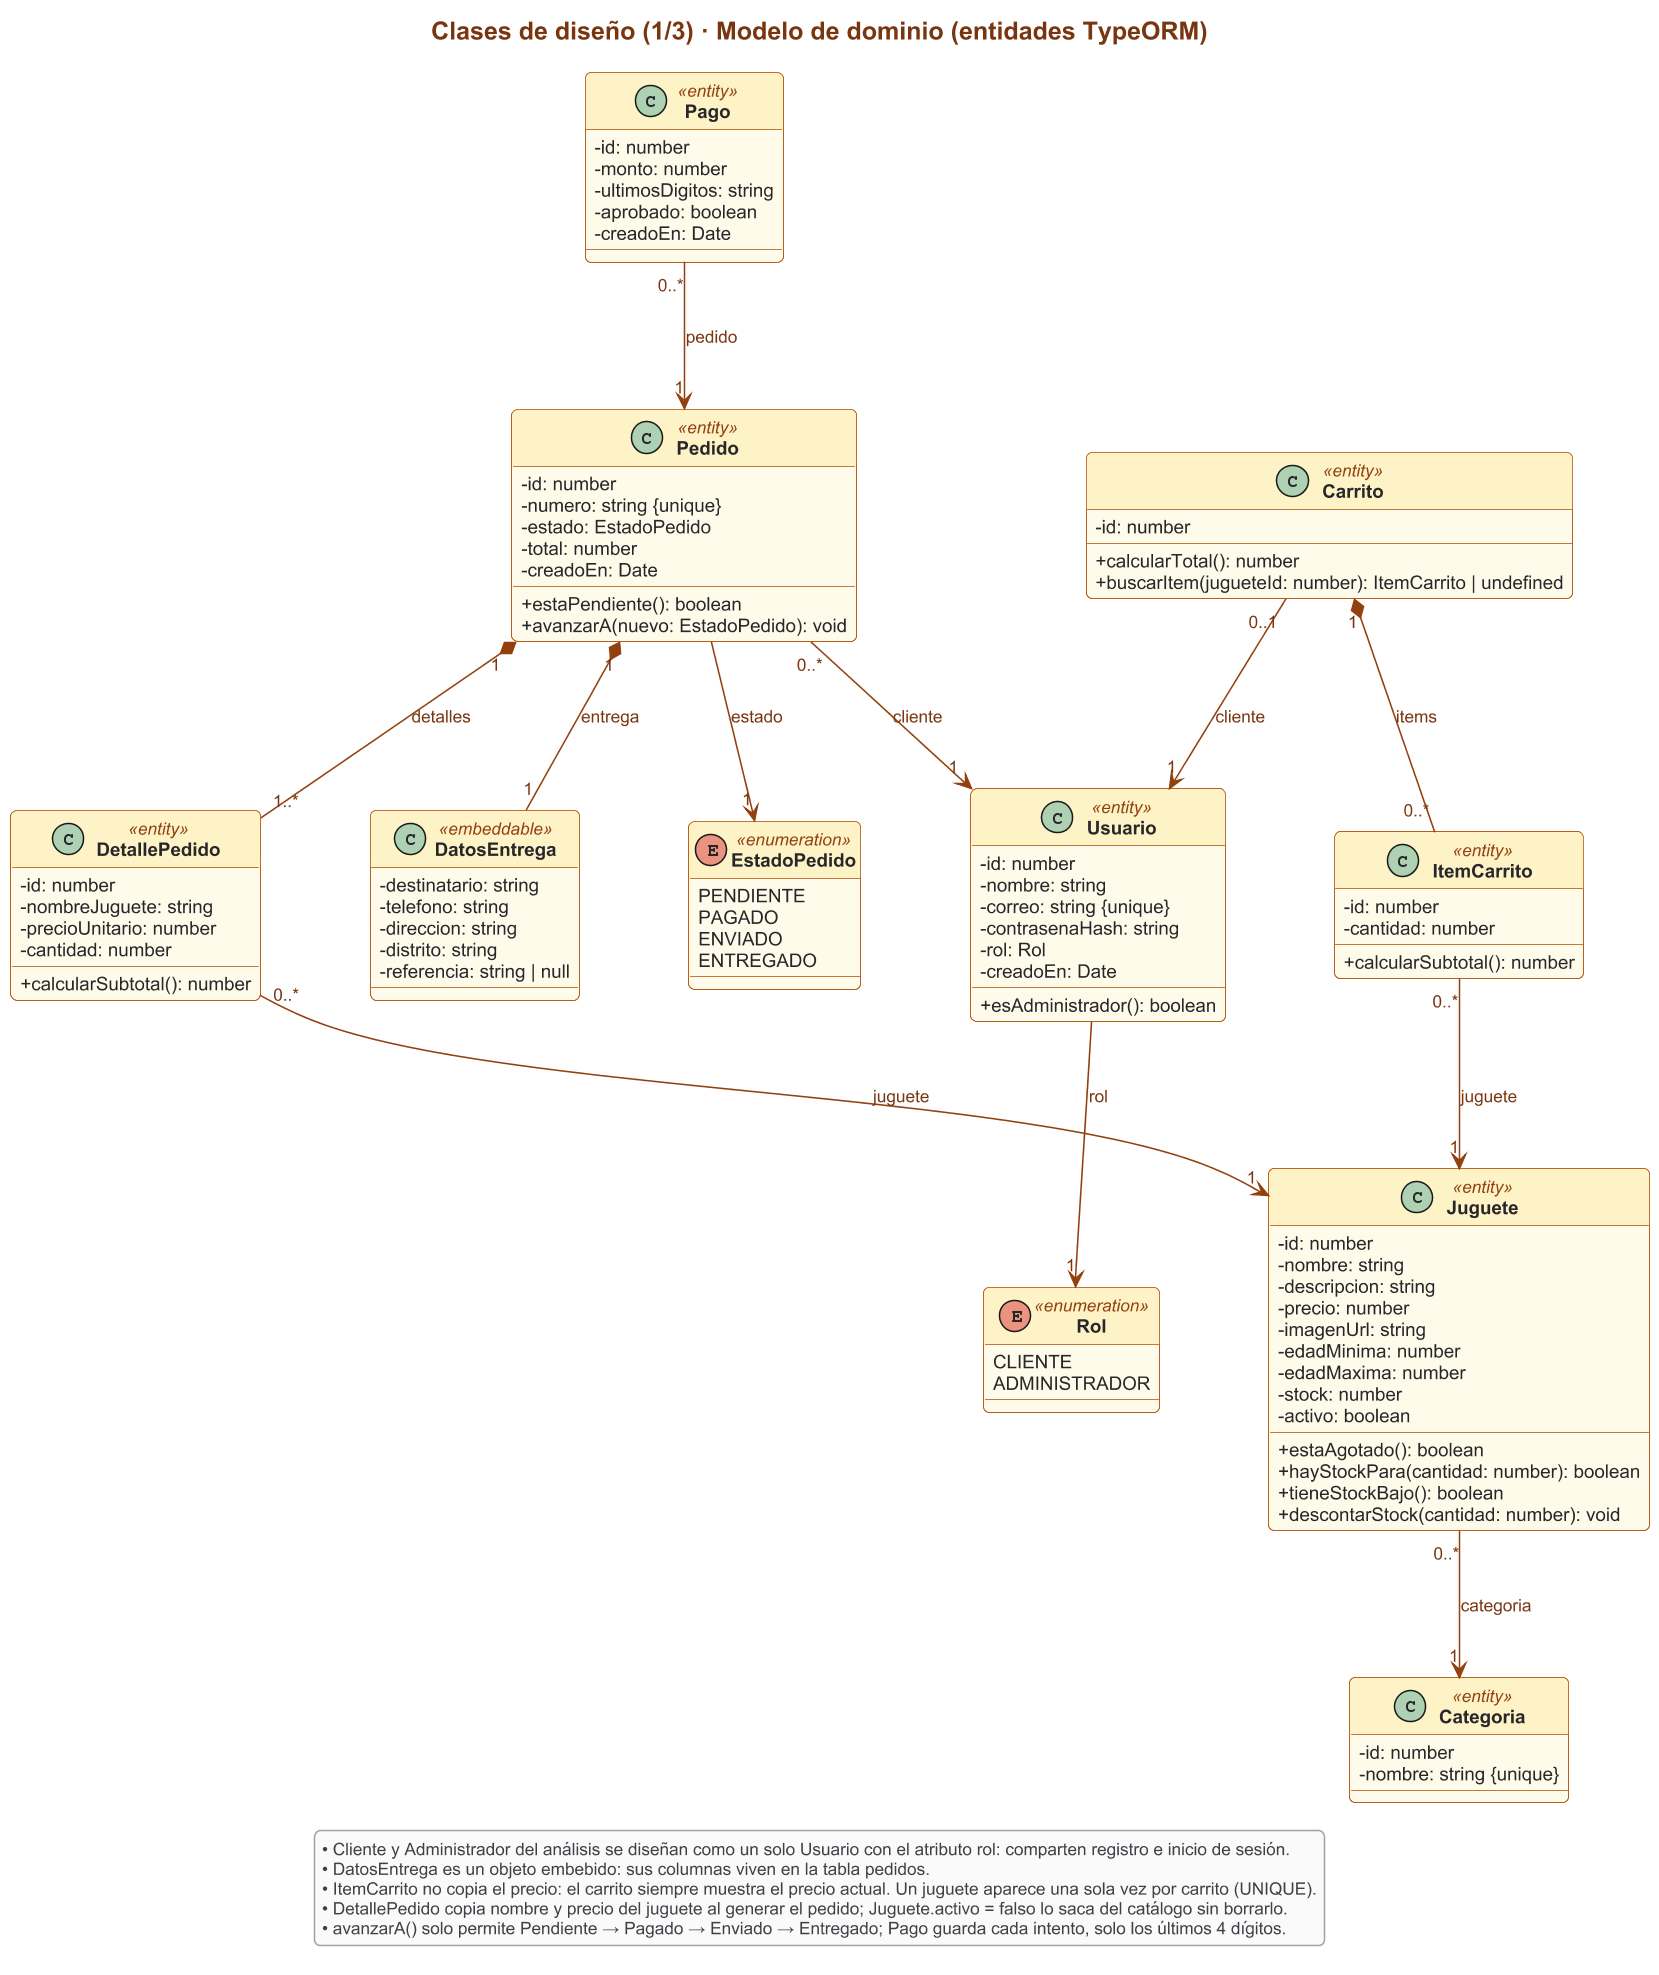
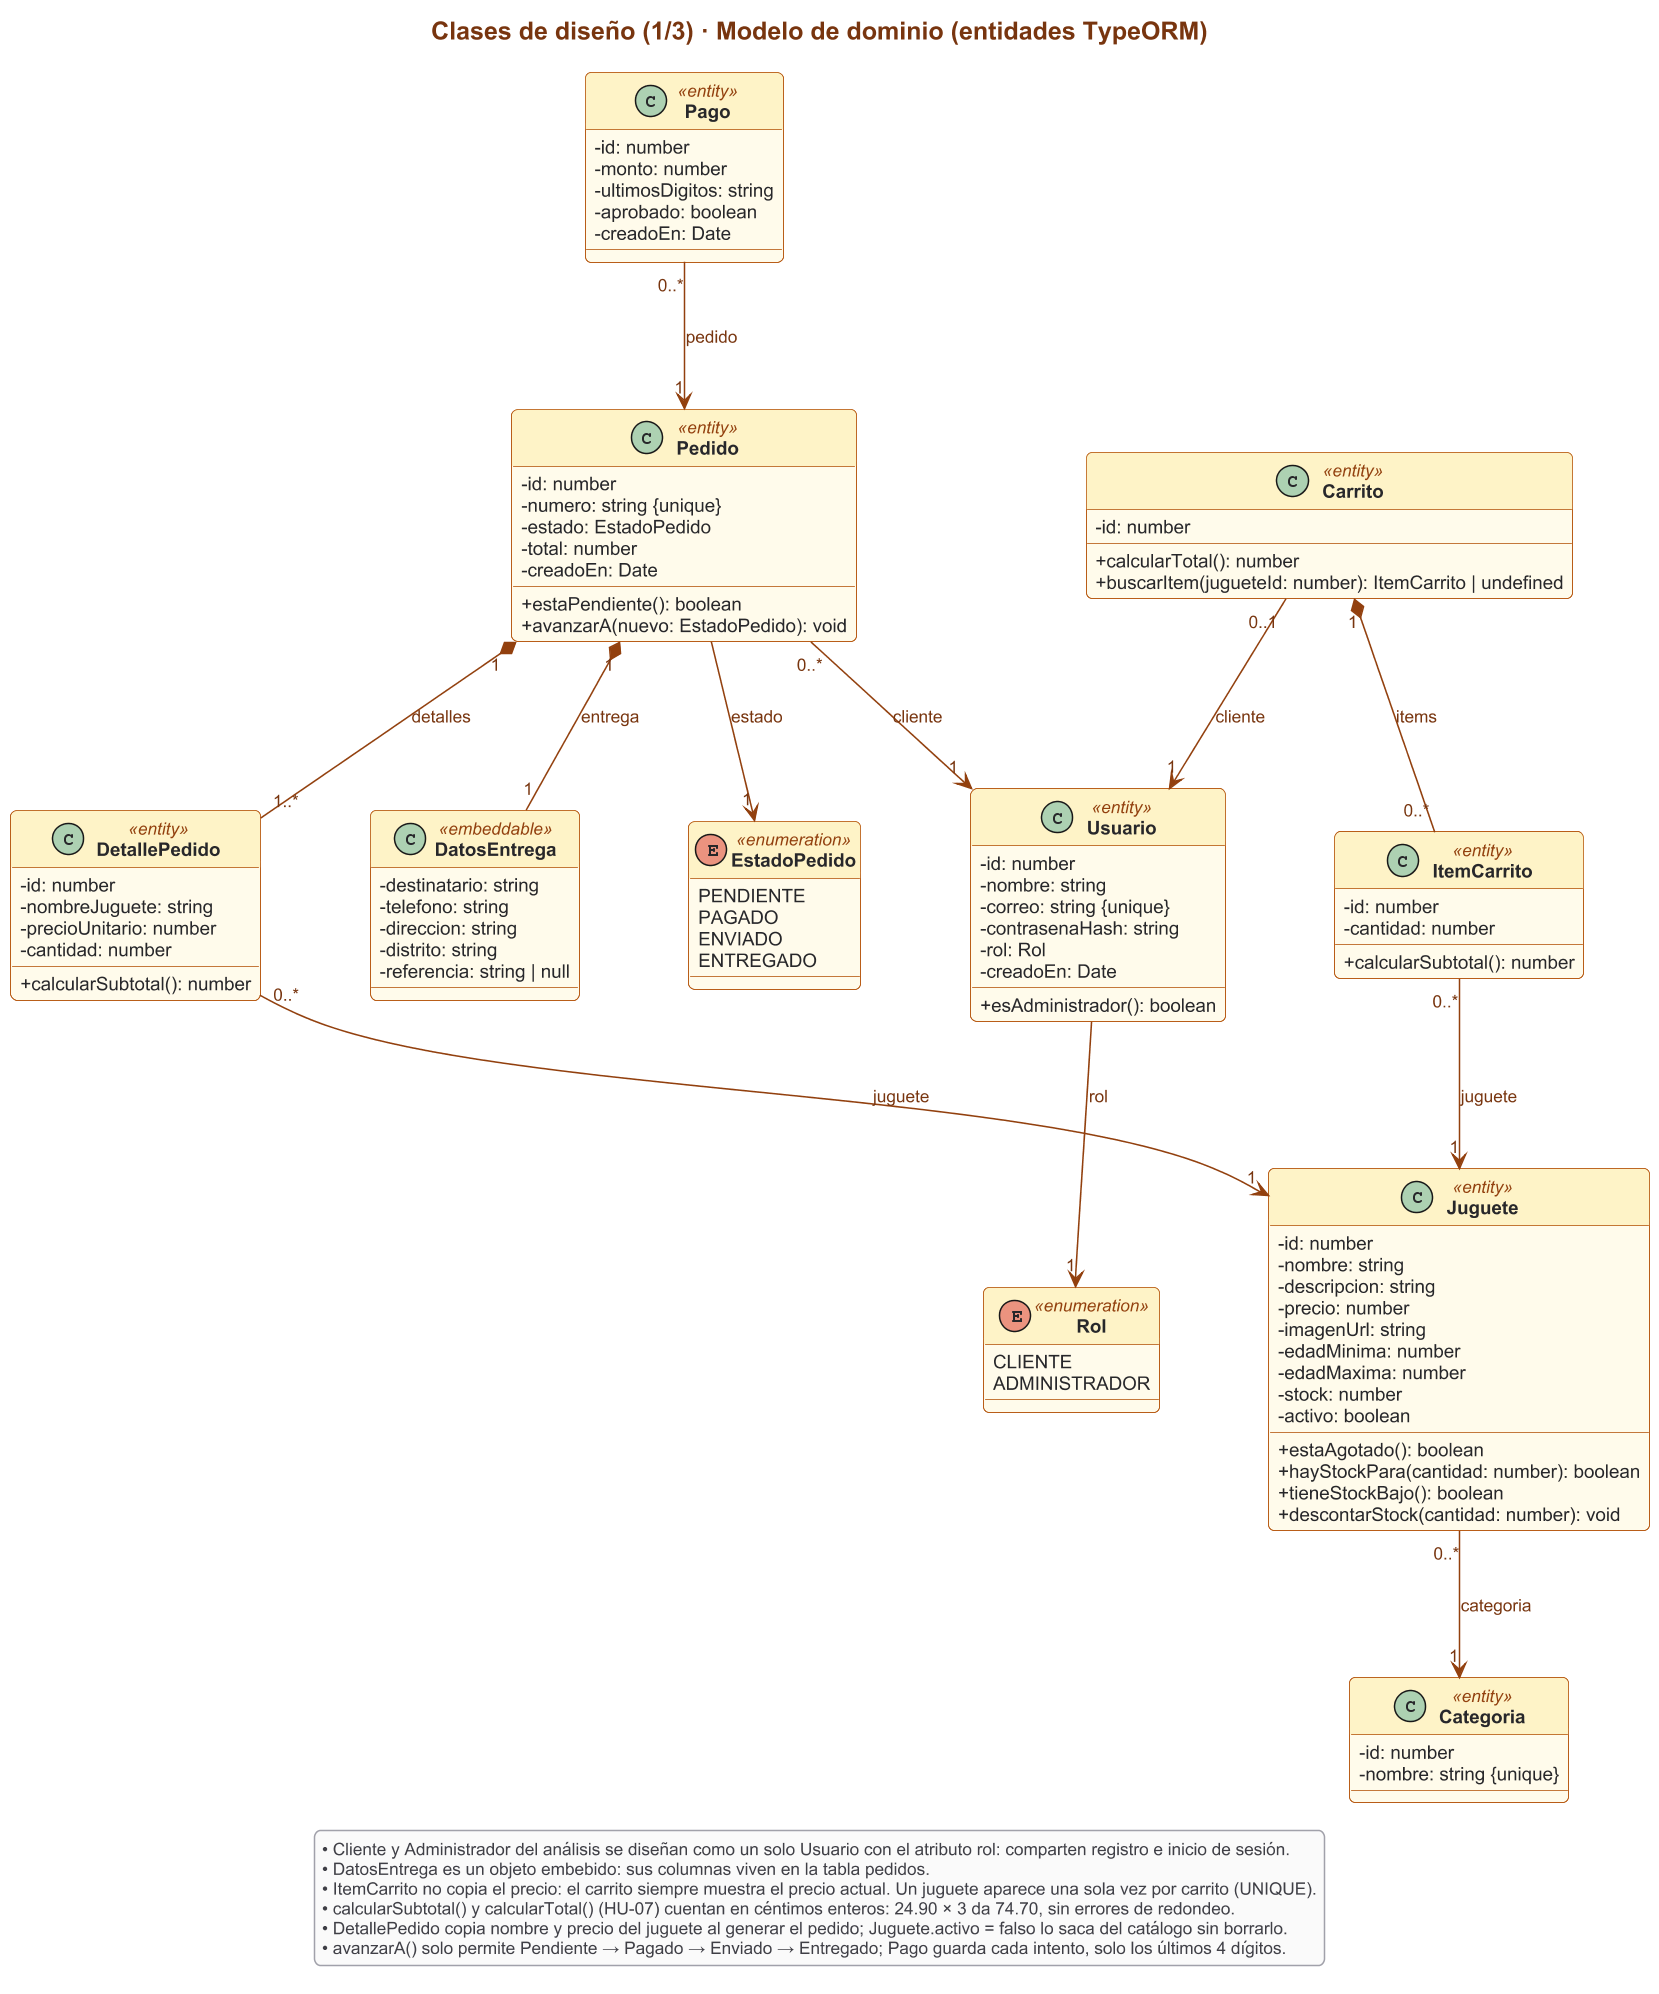
ETF-14 muestra el subtotal de cada juguete y el total del carrito
- Cada línea de /carrito muestra el precio unitario, la cantidad y el
  subtotal; al final, el total con las unidades. Los calcula la API en
  céntimos y llegan en cada respuesta, así que cambian con cada ajuste.
- En el celular, el subtotal pasa a la fila de abajo si no entra.
- Pruebas: subtotales y total del carrito guardado, después de cambiar
  una cantidad y después de quitar un juguete (90 en total).
- Leyenda de 04a y README de UML; capturas h07-01..05.

diff --git a/frontend/src/components/vista-carrito.tsx b/frontend/src/components/vista-carrito.tsx
@@ -7,6 +7,7 @@ import { IconoCarrito } from "@/components/icono-carrito";
 import { LineaCarrito } from "@/components/linea-carrito";
 import { guardarCarrito, obtenerCarrito, useCarrito } from "@/lib/carrito";
 import { ENLACE } from "@/lib/estilos";
+import { formatearPrecio } from "@/lib/juguetes";
 import { rutaIniciarSesion } from "@/lib/rutas";
 import { borrarSesion, useSesion } from "@/lib/sesion";
 
@@ -16,8 +17,9 @@ const BOTON_PRINCIPAL =
 const RUTA = "/carrito";
 
 /**
- * Contenido de la página del carrito (HU-06): cada juguete con su cantidad y «Quitar»,
- * o «Tu carrito está vacío» con un enlace al catálogo. Necesita sesión iniciada.
+ * Contenido de la página del carrito: cada juguete con su cantidad y «Quitar» (HU-06), los
+ * subtotales y el total (HU-07), o «Tu carrito está vacío» con un enlace al catálogo.
+ * Necesita sesión iniciada; el carrito se guarda en la base de datos.
  */
 export function VistaCarrito() {
   const router = useRouter();
@@ -91,17 +93,26 @@ export function VistaCarrito() {
     );
   }
 
+  const unidades = carrito.unidades === 1 ? "1 unidad" : `${carrito.unidades} unidades`;
   return (
     <section>
       <p className="mt-2 text-zinc-600 dark:text-zinc-400">
-        {carrito.unidades === 1 ? "1 unidad" : `${carrito.unidades} unidades`} en tu carrito. Puedes cambiar
-        las cantidades o quitar juguetes antes de comprar.
+        {unidades} en tu carrito. Puedes cambiar las cantidades o quitar juguetes antes de comprar.
       </p>
       <ul className="mt-6 divide-y divide-zinc-200 border-y border-zinc-200 dark:divide-zinc-800 dark:border-zinc-800">
         {carrito.items.map((item) => (
           <LineaCarrito key={item.id} item={item} token={token} onRecargar={volverALeer} />
         ))}
       </ul>
+      {/* HU-07: suma de los subtotales. Llega en cada respuesta de la API, así que cambia con cada ajuste. */}
+      <div className="mt-6 flex items-center justify-between gap-4 rounded-2xl bg-amber-50 px-5 py-4 dark:bg-zinc-900">
+        <p className="font-semibold">
+          Total <span className="text-sm font-normal text-zinc-600 dark:text-zinc-400">({unidades})</span>
+        </p>
+        <p aria-live="polite" className="text-2xl font-bold tabular-nums">
+          {formatearPrecio(carrito.total)}
+        </p>
+      </div>
       <p className="mt-6">
         <Link href="/" className={ENLACE}>
           ← Seguir comprando

diff --git a/frontend/src/components/linea-carrito.tsx b/frontend/src/components/linea-carrito.tsx
@@ -46,8 +46,8 @@ interface Props {
 }
 
 /**
- * Una línea de la página del carrito (HU-06): el juguete, su precio, los botones para
- * cambiar la cantidad entre 1 y el stock disponible, y «Quitar».
+ * Una línea de la página del carrito: el juguete, su precio unitario, los botones para
+ * cambiar la cantidad entre 1 y el stock disponible y «Quitar» (HU-06), y el subtotal (HU-07).
  */
 export function LineaCarrito({ item, token, onRecargar }: Props) {
   const [ocupado, setOcupado] = useState<"cantidad" | "quitar" | null>(null);
@@ -92,7 +92,7 @@ export function LineaCarrito({ item, token, onRecargar }: Props) {
         <img
           src={item.imagenUrl}
           alt={item.nombre}
-          className="h-20 w-28 rounded-xl bg-zinc-100 object-cover dark:bg-zinc-800"
+          className="h-16 w-20 rounded-xl bg-zinc-100 object-cover sm:h-20 sm:w-28 dark:bg-zinc-800"
         />
       </Link>
 
@@ -108,7 +108,8 @@ export function LineaCarrito({ item, token, onRecargar }: Props) {
           </p>
         </div>
 
-        <div className="flex items-center gap-5">
+        {/* En el celular, si no entra todo en una fila, el subtotal pasa a la fila de abajo. */}
+        <div className="flex flex-wrap items-center gap-x-5 gap-y-2">
           <div
             role="group"
             aria-label={`Cantidad de ${item.nombre}`}
@@ -144,6 +145,11 @@ export function LineaCarrito({ item, token, onRecargar }: Props) {
           >
             {ocupado === "quitar" ? "Quitando…" : "Quitar"}
           </button>
+          {/* HU-07: precio × cantidad. Lo calcula la API en céntimos, sin errores de redondeo. */}
+          <p className="ml-auto flex w-24 flex-col text-right sm:ml-0">
+            <span className="text-xs text-zinc-500 dark:text-zinc-400">Subtotal</span>
+            <span className="font-semibold tabular-nums">{formatearPrecio(item.subtotal)}</span>
+          </p>
         </div>
       </div>
     </li>

diff --git a/backend/src/carrito/carrito.service.spec.ts b/backend/src/carrito/carrito.service.spec.ts
@@ -3,6 +3,7 @@ import { Test, type TestingModule } from '@nestjs/testing';
 import { getRepositoryToken } from '@nestjs/typeorm';
 import type { Juguete } from '../juguetes/entities/juguete.entity.js';
 import { JuguetesService } from '../juguetes/juguetes.service.js';
+import { aCarritoDto } from './carrito-dto.js';
 import { CarritoService } from './carrito.service.js';
 import { Carrito } from './entities/carrito.entity.js';
 import { ItemCarrito } from './entities/item-carrito.entity.js';
@@ -278,6 +279,43 @@ describe('CarritoService', () => {
         NotFoundException,
       );
       expect(items.delete).not.toHaveBeenCalled();
+    });
+  });
+
+  describe('subtotales y total (HU-07)', () => {
+    beforeEach(() => {
+      bd.crearCarrito();
+      bd.agregarLinea(ABACO.id, 2); // línea 100: 2 × 24.90
+      bd.agregarLinea(AJEDREZ.id, 1); // línea 101: 1 × 59.90
+    });
+
+    const resumen = (carrito: Carrito) => {
+      const dto = aCarritoDto(carrito);
+      return {
+        subtotales: dto.items.map((item) => item.subtotal),
+        total: dto.total,
+      };
+    };
+
+    it('el carrito guardado trae cada subtotal (precio × cantidad) y el total', async () => {
+      expect(resumen(await servicio.obtenerCarrito(CLIENTE))).toEqual({
+        subtotales: [49.8, 59.9],
+        total: 109.7,
+      });
+    });
+
+    it('al cambiar una cantidad, el carrito devuelto ya tiene el subtotal y el total recalculados', async () => {
+      expect(resumen(await servicio.cambiarCantidad(CLIENTE, 100, 3))).toEqual({
+        subtotales: [74.7, 59.9],
+        total: 134.6,
+      });
+    });
+
+    it('al quitar un juguete, el total deja de sumar su subtotal', async () => {
+      expect(resumen(await servicio.quitarItem(CLIENTE, 101))).toEqual({
+        subtotales: [49.8],
+        total: 49.8,
+      });
     });
   });
 

diff --git a/docs/uml/README.md b/docs/uml/README.md
@@ -60,7 +60,7 @@ Se dividen en tres vistas para que cada una se lea bien. **B** = frontera (panta
 |---|---|---|---|---|
 | Catálogo | CU-01, CU-02, CU-03 | ControlCatalogo | `backend/src/juguetes` (hecho), `categorias` | `/`, `/juguetes/[id]` (hechas) |
 | Usuarios | CU-04, CU-05, CU-06 | ControlCuentas | `backend/src/usuarios`, `auth` (registro, inicio de sesión y `JwtAuthGuard` hechos) | `/registro`, `/iniciar-sesion` (hechas) |
-| Carrito | CU-07, CU-08 | ControlCarrito | `backend/src/carrito` (agregar, cambiar cantidad y quitar hechos) | botón «Agregar al carrito», contador y `/carrito` (hechos) |
+| Carrito | CU-07, CU-08 | ControlCarrito | `backend/src/carrito` (hecho) | botón «Agregar al carrito», contador y `/carrito` con subtotales y total (hechos) |
 | Pedidos | CU-09, CU-11 | ControlPedidos | `backend/src/pedidos` | `/checkout`, `/mis-pedidos` |
 | Pagos | CU-10 | ControlPago | `backend/src/pagos` | `/pago/[numero]` |
 | Administración | CU-12 … CU-15 | ControlAdminCatalogo, ControlAdminPedidos | rutas protegidas para el rol ADMINISTRADOR en `juguetes`, `categorias` y `pedidos` | `/admin/...` |
@@ -79,7 +79,7 @@ Tres vistas: el modelo de dominio (entidades de TypeORM) y los controllers y ser
 - **Controller + service.** Cada módulo de NestJS tiene un controller, que expone las rutas HTTP, y un service, que aplica las reglas del negocio usando el `Repository` de TypeORM.
 - **Seguridad.** `JwtAuthGuard` identifica al usuario a partir del JWT, y `RolesGuard` deja pasar solo al rol ADMINISTRADOR. El `usuarioId` siempre sale del token, nunca del cuerpo de la petición.
 - **Pago en una transacción.** `PagosService.pagar()` valida la tarjeta, verifica el stock, guarda el `Pago`, descuenta el stock y marca el pedido como Pagado en una sola transacción.
-- **Ya implementado.** `JuguetesController` y `JuguetesService` con `listarCatalogo` y `obtenerDetalle` (HU-01, HU-02); `AuthController`, `AuthService` y `UsuariosService` con `registrar` (HU-03) e `iniciarSesion` (HU-04); `JwtAuthGuard`, `AuthService.verificarToken`, `JuguetesService.verificarStock` y `CarritoController`/`CarritoService` con `obtener` y `agregar` (HU-05), y con `cambiarCantidad` y `quitar`/`quitarItem` (HU-06). El resto de nombres guía las próximas historias.
+- **Ya implementado.** `JuguetesController` y `JuguetesService` con `listarCatalogo` y `obtenerDetalle` (HU-01, HU-02); `AuthController`, `AuthService` y `UsuariosService` con `registrar` (HU-03) e `iniciarSesion` (HU-04); `JwtAuthGuard`, `AuthService.verificarToken`, `JuguetesService.verificarStock` y `CarritoController`/`CarritoService` con `obtener` y `agregar` (HU-05), y con `cambiarCantidad` y `quitar`/`quitarItem` (HU-06); `Carrito.calcularTotal` e `ItemCarrito.calcularSubtotal` (HU-07). El resto de nombres guía las próximas historias.
 - **El hash no sale de la base de datos.** La columna `contrasena_hash` tiene `select: false`: solo `UsuariosService.buscarConContrasena` la lee, y solo para el inicio de sesión.
 
 ## 5. Subsistemas con interfaces
